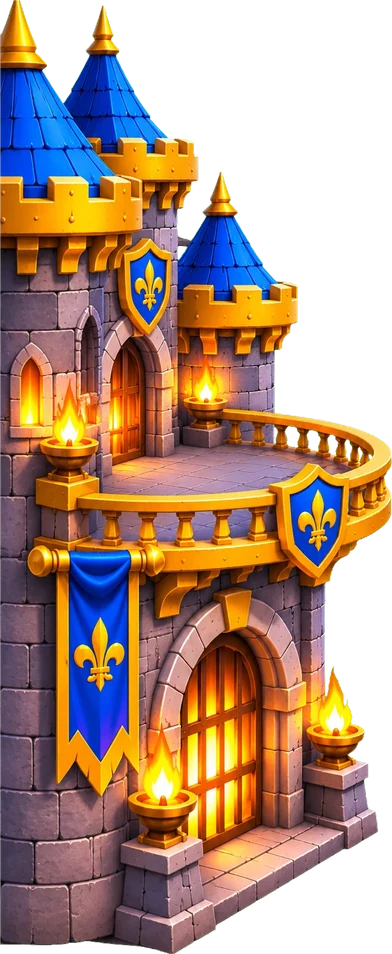
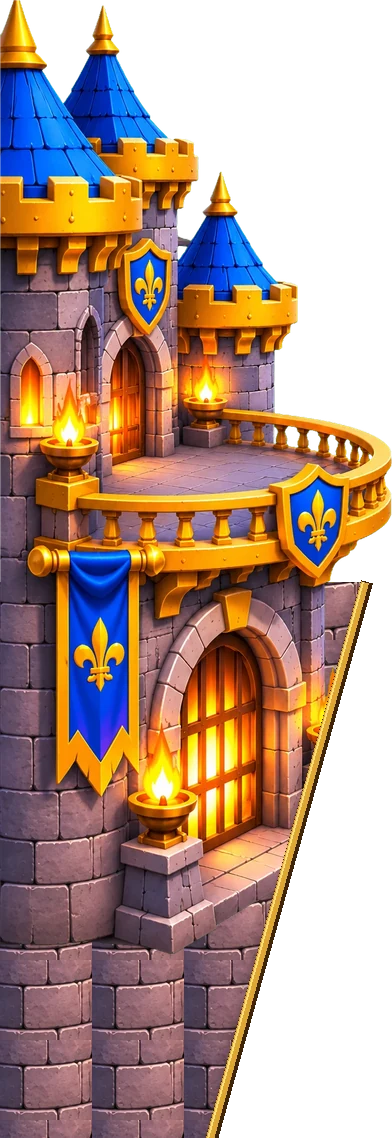
Castle front follows one straight line from the balcony to the screen bottom
Below the balcony the castle art is cut on a diagonal matching the lane
edges, extended down with its own stone texture and a gold trim edge, so no
steps or corners stick out into the arena.

Claude-Session: https://claude.ai/code/session_019FHBnxKyTVWzaJqkftQpoS

diff --git a/web/js/render.js b/web/js/render.js
@@ -211,7 +211,7 @@
       const key = m.players[0].castle.id + '|' + m.players[1].castle.id;
       if (this.frontKey === key) return;
       this.frontKey = key;
-      const edge = (id, i) => { const a = this.castleArtFor(id); const f = a && a.front && a.front[i]; return f == null ? null : f + (i === 0 ? 16 : -40); };
+      const edge = (id, i) => { const a = this.castleArtFor(id); const f = a && a.front && a.front[i]; return f == null ? null : f + (i === 0 ? 16 : -28); };
       ARENA.lanes.forEach((l, i) => {
         const [dL, dR] = ARENA.laneEnds[i];
         const e0 = edge(m.players[0].castle.id, i), e1 = edge(m.players[1].castle.id, i);

diff --git a/web/js/castles.js b/web/js/castles.js
@@ -3,7 +3,7 @@ window.BB = window.BB || {};
 BB.CASTLES_ART = {
  "royal_fortress": {
   "w": 392,
-  "h": 954,
+  "h": 1138,
   "foot": [
    184,
    485
@@ -44,8 +44,8 @@ BB.CASTLES_ART = {
   ],
   "front": [
    384,
-   327,
-   357
+   345,
+   295
   ]
  }
 };

diff --git a/tools/extract-castles.py b/tools/extract-castles.py
@@ -4,7 +4,7 @@
 O renderizador encaixa o ponto da sacada (bx, by) na posição do Barão da arena e escala por BALCONY."""
 import os, json
 import numpy as np
-from PIL import Image
+from PIL import Image, ImageDraw
 from scipy import ndimage
 ROOT = os.path.dirname(os.path.dirname(os.path.abspath(__file__)))
 SRC = os.path.join(ROOT, 'art', 'source', 'castles')
@@ -31,6 +31,47 @@ FOOT_TO_GROUND = 470
 # arena (web/js/render.js ARENA): pé do Barão da esquerda e linha dos pés de cada rota
 BARON = (178, 238 + 54)
 LANES_Y = (322, 472, 652)
+ARENA_H = 941
+# frente reta do castelo da sacada para baixo (coordenadas da arena, lado esquerdo): passa por estes dois pontos
+# e segue até a borda de baixo da tela; abaixo da sacada tudo que passar da linha é cortado e o vão vira muro
+WALL_LINE = ((335, 472), (285, 652))
+STONE = {'royal_fortress': (20, 1420, 180, 1560)}  # pedaço de parede lisa (imagem original) usado como textura do muro
+
+
+def wall_front(im2, fx, fy, rail_bottom, stone):
+    """Prolonga o castelo até a borda de baixo com a frente numa linha reta (sem pontas nem degraus para fora)."""
+    (ax, ay), (bx, by) = WALL_LINE
+    slope = (bx - ax) / (by - ay)
+    xl = lambda yl: ax + (yl + fy - ay) * slope - fx  # x da linha (local) na altura yl (local)
+    H = max(im2.height, ARENA_H - fy + 4)
+    y0 = rail_bottom + 14
+    out = Image.new('RGBA', (im2.width, H), (0, 0, 0, 0))
+    # muro: textura de pedra repetida
+    tile = stone
+    tex = Image.new('RGBA', (im2.width, H))
+    for ty in range(0, H, tile.height):
+        for tx in range(0, im2.width, tile.width):
+            tex.paste(tile, (tx, ty))
+    poly = [(0, y0), (xl(y0), y0), (xl(H), H), (0, H)]
+    m = Image.new('L', out.size, 0); ImageDraw.Draw(m).polygon(poly, fill=255)
+    out.paste(tex, (0, 0), m)
+    # sombra suave perto da quina (dá volume)
+    sh = Image.new('L', out.size, 0); d = ImageDraw.Draw(sh)
+    for k in range(18):
+        d.line([(xl(y0) - k, y0), (xl(H) - k, H)], fill=int(90 * (1 - k / 18)), width=1)
+    out.paste(Image.new('RGBA', out.size, (20, 14, 30, 255)), (0, 0), Image.fromarray((np.asarray(sh) * (np.asarray(m) > 0)).astype(np.uint8)))
+    # castelo por cima, cortado na linha abaixo da sacada
+    cm = Image.new('L', out.size, 0); dc = ImageDraw.Draw(cm)
+    dc.rectangle((0, 0, im2.width, y0), fill=255); dc.polygon(poly, fill=255)
+    layer = Image.new('RGBA', out.size, (0, 0, 0, 0)); layer.paste(im2, (0, 0))
+    a = np.asarray(layer).copy(); a[..., 3] = (a[..., 3].astype(int) * (np.asarray(cm) > 0)).astype(np.uint8)
+    out.alpha_composite(Image.fromarray(a))
+    # acabamento dourado na quina, como as linhas das rotas
+    d = ImageDraw.Draw(out)
+    d.line([(xl(y0) + 2, y0), (xl(H) + 2, H)], fill=(60, 36, 10, 255), width=12)
+    d.line([(xl(y0), y0), (xl(H), H)], fill=(222, 166, 52, 255), width=8)
+    d.line([(xl(y0) - 2, y0), (xl(H) - 2, H)], fill=(255, 222, 120, 255), width=2)
+    return out
 
 
 def key(rgb):
@@ -76,12 +117,15 @@ def main():
         if sp:
             s = FOOT_TO_GROUND / (sp['ground'] - sp['foot'][1])
             im2 = im.resize((round(im.width * s), round(im.height * s)), Image.LANCZOS)
-            im2.save(os.path.join(OUT, cid + '.webp'), 'WEBP', quality=88, method=6)
             P = lambda x, y: [round(x * s), round(y * s)]
             rail = [P(*q) for q in sp['rail']]
             rb = round(sp['railBottom'] * s)
-            # frente do castelo em cada rota (onde as tropas encostam): ponto mais à direita da arte na linha dos pés
             fx, fy = BARON[0] - round(sp['foot'][0] * s), BARON[1] - round(sp['foot'][1] * s)
+            sx0, sy0, sx1, sy1 = STONE[cid]
+            stone = im.crop((sx0 - x0, sy0 - y0, sx1 - x0, sy1 - y0)).resize((round((sx1 - sx0) * s), round((sy1 - sy0) * s)), Image.LANCZOS)
+            im2 = wall_front(im2, fx, fy, rb, stone)
+            im2.save(os.path.join(OUT, cid + '.webp'), 'WEBP', quality=88, method=6)
+            # frente do castelo em cada rota (onde as tropas encostam): ponto mais à direita da arte na linha dos pés
             al = np.asarray(im2)[..., 3]
             front = []
             for ly in LANES_Y:
